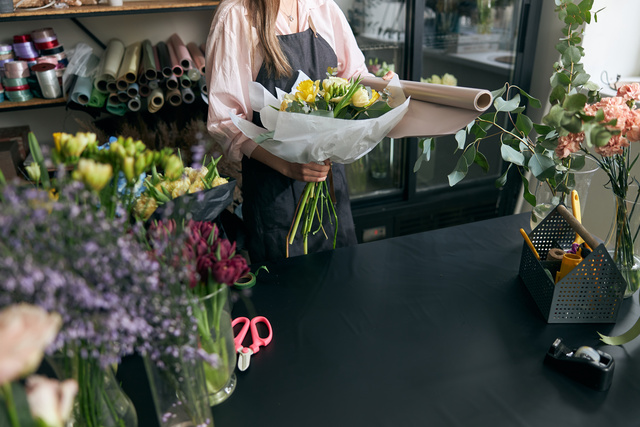
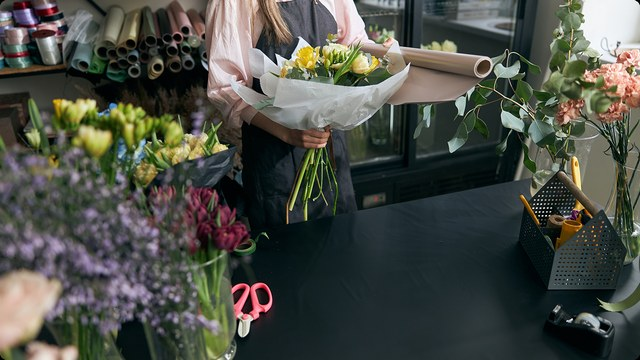
testfix_c1

diff --git a/index.html b/index.html
@@ -421,14 +421,21 @@
               </li>
             </ul>
 
-          <img
-            src="./images/contacts@X1.jpg"
-            alt="Florist holding beautiful flowers in flower shop"
-            width="600"
-            height="450"
-            class="contacts-picture"
-            loading="lazy"
-          />
+          <picture>
+            <source
+              type="image/webp"
+              srcset="./images/contacts@X1.webp 1x, ./images/contacts@X2.webp 2x"
+            />
+            <img
+              src="./images/contacts@X1.jpg"
+              srcset="./images/contacts@X2.jpg 2x"
+              alt="Florist holding beautiful flowers in flower shop"
+              width="640"
+              height="360"
+              class="contacts-picture"
+              loading="lazy"
+            />
+          </picture>
         </div>
       </section>
     </main>

diff --git a/css/styles.css b/css/styles.css
@@ -435,9 +435,8 @@ body.menu-open {
 
 .contacts-picture {
   width: 100%;
-  aspect-ratio: 4 / 3;
+  aspect-ratio: 16 / 9;
   object-fit: cover;
-  object-position: center 25%;
   border-radius: 12px;
 }
 
@@ -583,7 +582,6 @@ body.menu-open {
     grid-column: 1 / span 2;
     grid-row: 4;
     margin-top: 16px;
-    aspect-ratio: 21 / 9;
   }
 
   .footer-inner {
